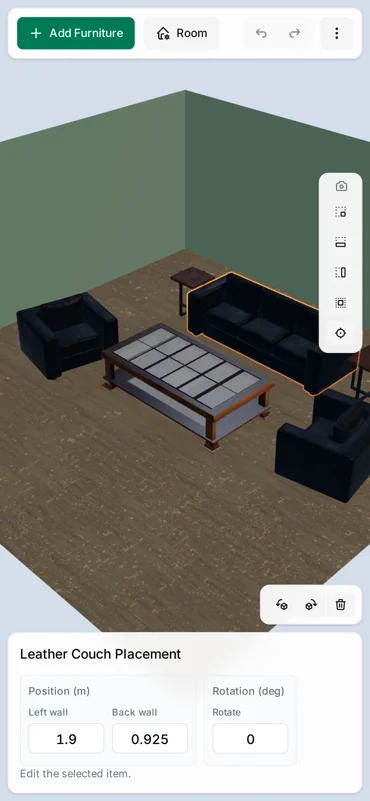
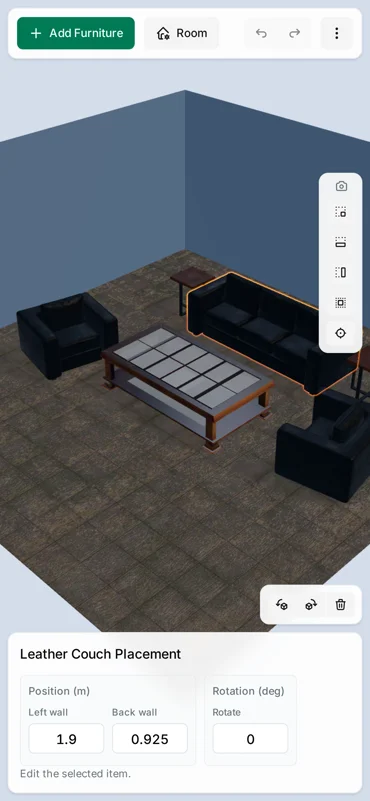
docs(readme): vary stills - dark theme, new finishes
- stranded still switches to the dark theme (chrome-heavy frame)
- mobile still switches to slate-blue walls + granite-tile floor
- each top-media asset now varies one capability from the gif

diff --git a/README.md b/README.md
@@ -7,13 +7,15 @@ See how catalog furniture fits your space: an interactive 3D furniture arrangeme
 ![Selecting an armchair, dragging it across the floor, and rotating it from the floating toolbar, which tracks the selection throughout](docs/media/motion.gif)
 
 <p>
-  <img src="docs/media/resize-stranded.webp" width="640" alt="The Room panel's Size tab after shrinking the room width: two items stranded outside the walls carry warning outlines, and the panel reports the situation with a Move items inside button">
-  <img src="docs/media/mobile-docked.webp" width="185" alt="The mobile layout with a couch selected: the selected-item toolbar docks above the placement details panel">
+  <img src="docs/media/resize-stranded.webp" width="640" alt="The Room panel's Size tab in the dark theme after shrinking the room width: two items stranded outside the walls carry warning outlines, and the panel reports the situation with a Move items inside button">
+  <img src="docs/media/mobile-docked.webp" width="185" alt="The mobile layout in a slate-walled, granite-floored room with a couch selected: the selected-item toolbar docks above the placement details panel">
 </p>
 
 Left: shrinking the room never moves furniture - stranded items get warning
-outlines and an explicit, undoable "Move items inside" fix. Right: on phones
-the selected-item toolbar docks above the details panel instead of floating.
+outlines and an explicit, undoable "Move items inside" fix (shown in the dark
+theme, which follows the system preference). Right: different wall and floor
+finishes in the phone layout, where the toolbar docks above the details panel
+instead of floating.
 
 Pick furniture from a visual catalog, arrange items in real time, adjust room surfaces without leaving the layout, and share your setup via URL.
 
